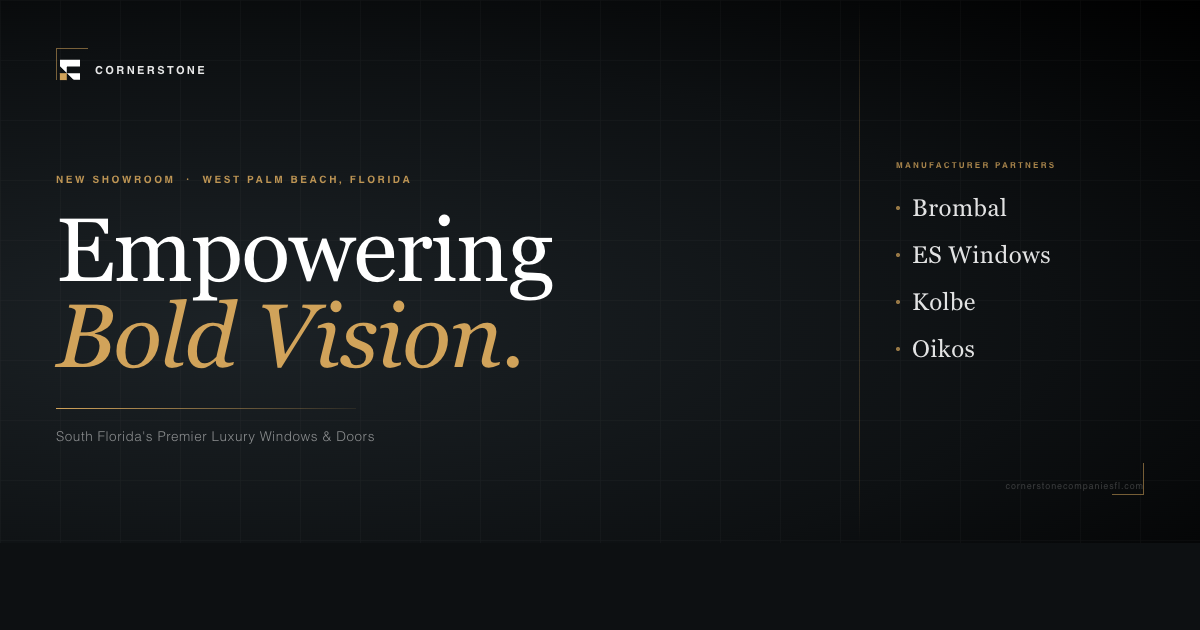
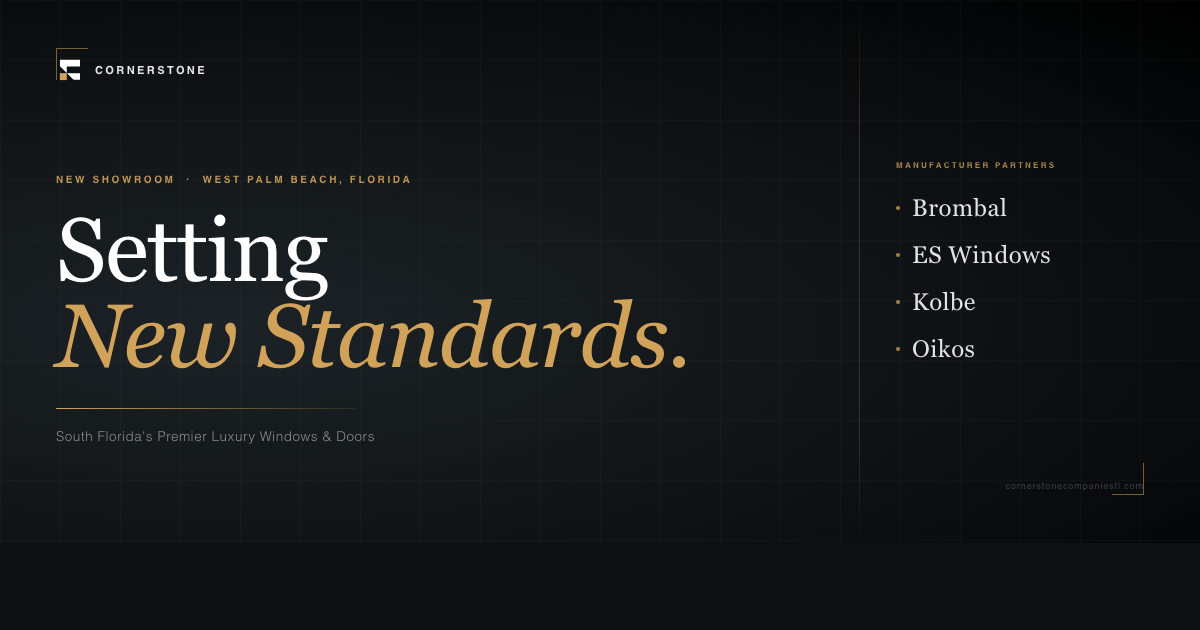
chore: minor changes

Changed region(s): [[0.0308, 0.3317, 0.5858, 0.6032]]

diff --git a/index.html b/index.html
@@ -3,7 +3,7 @@
     <head>
         <meta charset="UTF-8" />
         <meta name="viewport" content="width=device-width, initial-scale=1.0" />
-        <title>Cornerstone Showroom — Empowering Bold Vision</title>
+        <title>Cornerstone Showroom — Setting New Standards</title>
         <meta
             name="description"
             content="South Florida's premier luxury impact windows and doors showroom. Design-forward fenestration solutions for visionary architects and builders."
@@ -15,17 +15,17 @@
         <link rel="apple-touch-icon" sizes="512x512" href="https://bzsgnssrkj.ufs.sh/f/15407bOoZ2euIuSuHDtASzGstywaupdBU9j6NJ85mhqeikFW" />
 
         <!-- Open Graph -->
-        <meta property="og:title" content="Cornerstone Showroom — Empowering Bold Vision" />
+        <meta property="og:title" content="Cornerstone Showroom — Setting New Standards" />
         <meta property="og:description" content="South Florida's premier luxury impact windows and doors showroom. Design-forward fenestration for visionary architects and builders." />
-        <meta property="og:image" content="https://bzsgnssrkj.ufs.sh/f/15407bOoZ2eug7tth3FIe5V4kdiUjcZQ0psFMTBmCAxhPLgq" />
+        <meta property="og:image" content="https://bzsgnssrkj.ufs.sh/f/15407bOoZ2eurLmVSOeBNAGyWIX9f1MEcuklpnPFRJav4g3o" />
         <meta property="og:image:width" content="1200" />
         <meta property="og:image:height" content="630" />
         <meta property="og:type" content="website" />
         <meta property="og:url" content="https://www.cornerstonecompaniesfl.com" />
         <meta name="twitter:card" content="summary_large_image" />
-        <meta name="twitter:title" content="Cornerstone Showroom — Empowering Bold Vision" />
+        <meta name="twitter:title" content="Cornerstone Showroom — Setting New Standards" />
         <meta name="twitter:description" content="South Florida's premier luxury impact windows and doors showroom." />
-        <meta name="twitter:image" content="https://bzsgnssrkj.ufs.sh/f/15407bOoZ2eug7tth3FIe5V4kdiUjcZQ0psFMTBmCAxhPLgq" />
+        <meta name="twitter:image" content="https://bzsgnssrkj.ufs.sh/f/15407bOoZ2eurLmVSOeBNAGyWIX9f1MEcuklpnPFRJav4g3o" />
 
         <link rel="preconnect" href="https://fonts.googleapis.com" />
         <link rel="preconnect" href="https://fonts.gstatic.com" crossorigin />

diff --git a/og-template.html b/og-template.html
@@ -212,9 +212,10 @@
   <!-- Main content -->
   <div class="main">
     <div class="eyebrow">New Showroom &nbsp;·&nbsp; West Palm Beach, Florida</div>
+
     <div class="headline">
-      Empowering
-      <em>Bold Vision.</em>
+      Setting
+      <em>New Standards.</em>
     </div>
     <div class="rule"></div>
     <div class="sub">South Florida's Premier Luxury Windows &amp; Doors</div>
